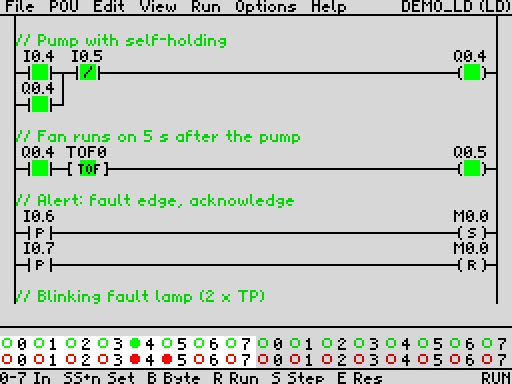
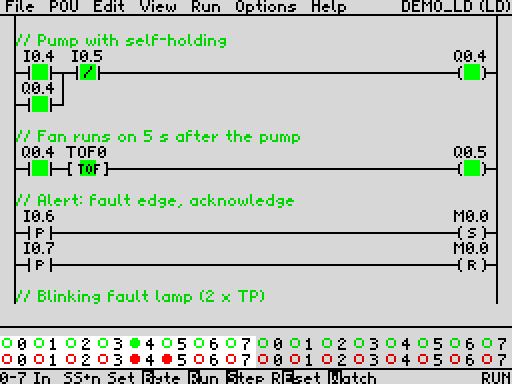
Simulation hints: the key letter inverted (ST_INV), W Watch added

Changed region(s): [[0.25, 0.9375, 0.75, 1.0]]

diff --git a/CLAUDE.md b/CLAUDE.md
@@ -211,7 +211,7 @@ editor and key for users.
   - The status bar has two parts: `status_left` with the `st_left` text, and `status_right` (from cell
     `st_rcol`, reset by `screen_begin`; the simulation moves it right for its key hints). Each redraws
     only when its text changes. `st_left` markers: ST_SYM/ST_SYME = inverted symbol name,
-    ST_TAB = column. The simulation hints must fit left of cell SM_RCOL (26) and differ per page
+    ST_TAB = column, ST_INV = the next char only inverted (key hints of the simulation). The simulation hints must fit left of cell SM_RCOL (26) and differ per page
     (program / watch: T Trend / trend: W Watch).
   - Menu tables (src/menu.asm): `command, hotkey, label`. The hotkey is not shown; it must match the
     item name (normally its first letter; the user rejected unrelated letters). The open drop-down takes
